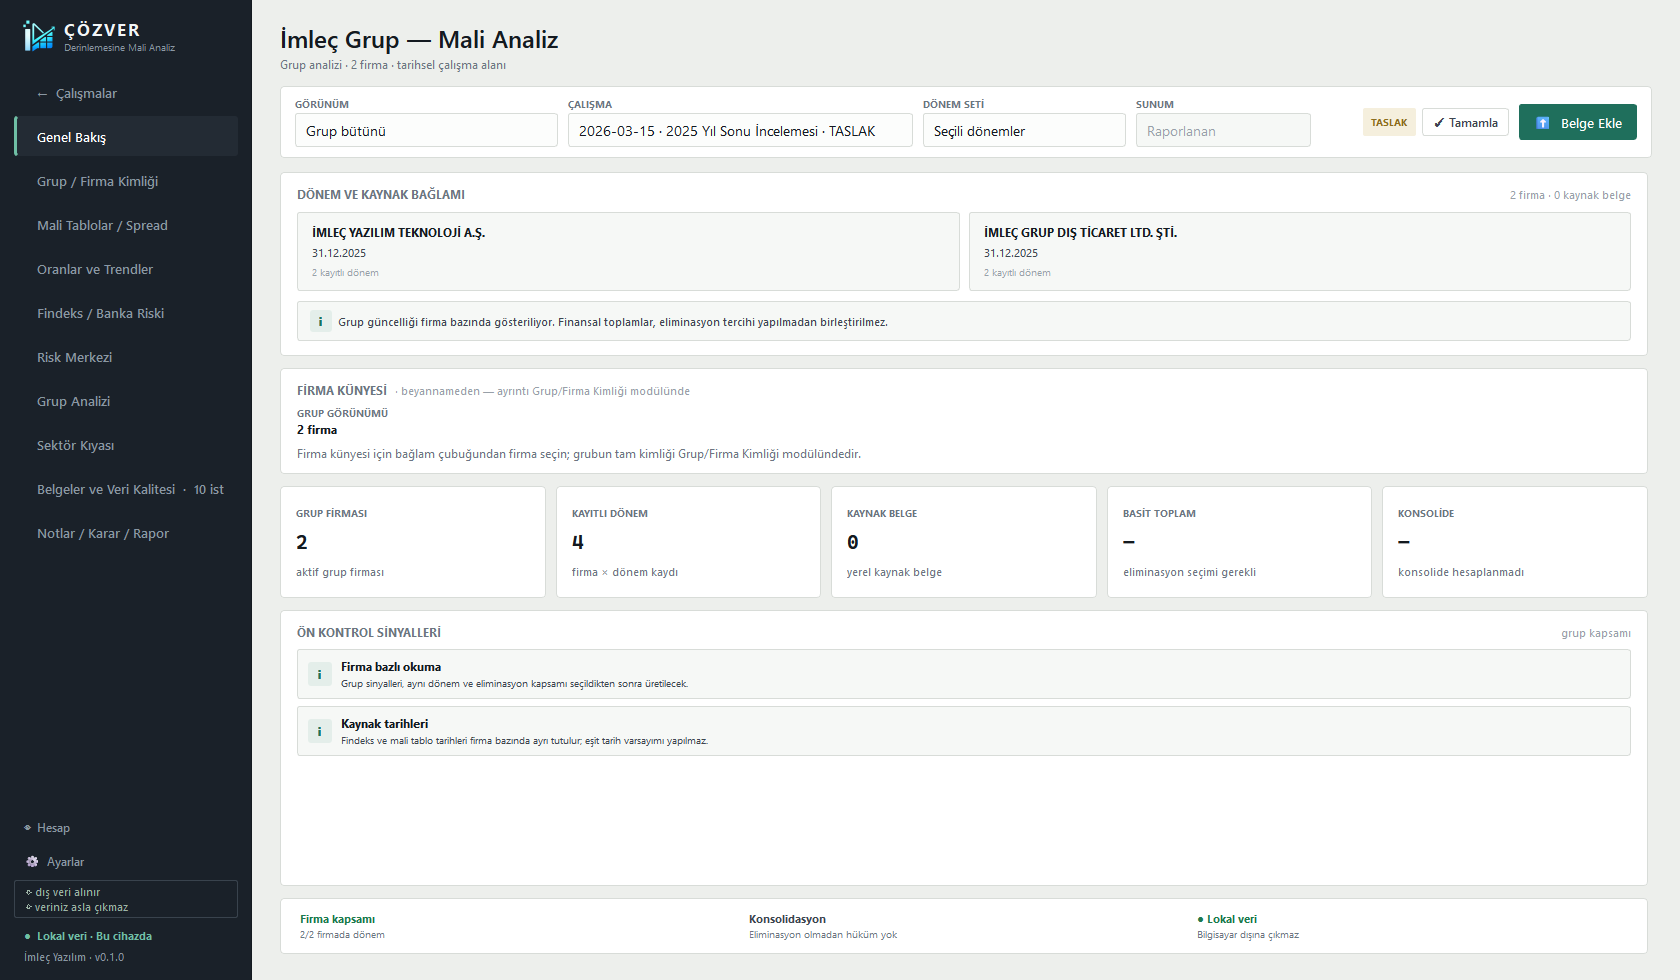
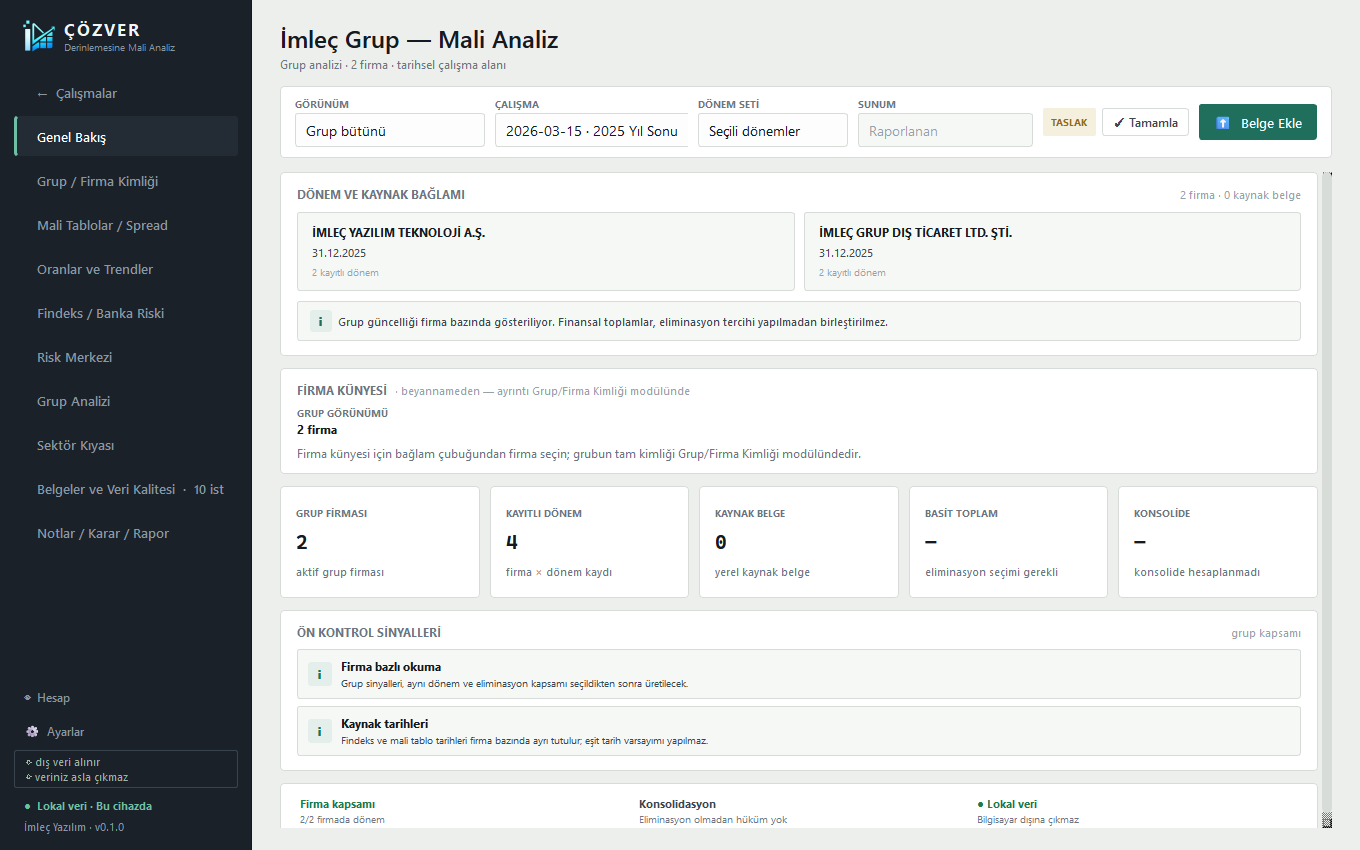
Readable full-width product screenshots, drop cross-product family section

diff --git a/components/products/ProductPageLayout.tsx b/components/products/ProductPageLayout.tsx
@@ -5,11 +5,8 @@ import Link from "next/link";
 import {
   ArrowRight,
   Check,
-  ChevronRight,
   Download,
-  FileSpreadsheet,
   LockKeyhole,
-  MonitorDown,
   Sparkles,
 } from "lucide-react";
 import { Badge } from "@/components/ui/Badge";
@@ -101,7 +98,8 @@ export type ProductPageConfig = {
     question: string;
     answer: string;
   }>;
-  related: RelatedProduct[];
+  /** Kullanilmiyor (18.08: urunler farkli mesleklere hitap eder, capraz satis yok) */
+  related?: RelatedProduct[];
   waitlist?: {
     action?: string | null;
     note: string;
@@ -344,30 +342,53 @@ export function ProductPageLayout({ config }: ProductPageLayoutProps) {
             {config.screenshots.map((screen) => (
               <TabsContent key={screen.id} value={screen.id}>
                 <WindowFrame title={screen.title}>
-                  <div className="grid gap-0 bg-[var(--surface-0)] lg:grid-cols-[1.12fr_0.88fr]">
-                    <div className="p-3">
-                      {screen.image ? (
+                  {screen.image ? (
+                    <div className="bg-[var(--surface-0)]">
+                      {/* Okunabilirlik: gorsel tam genislik; tiklayinca tam boyut acilir */}
+                      <a
+                        href={screen.image.src}
+                        target="_blank"
+                        rel="noreferrer"
+                        title="Tam boyut görmek için tıklayın"
+                        className="block cursor-zoom-in p-3"
+                      >
                         <Image
                           src={screen.image}
                           alt={screen.alt ?? screen.title}
                           className="h-auto w-full rounded-[var(--radius-md)] border border-[var(--border-subtle)]"
                         />
-                      ) : (
+                      </a>
+                      <div className="border-t border-[var(--border-subtle)] px-6 py-5">
+                        <p className="text-label text-[var(--text-tertiary)]">
+                          {screen.label}
+                        </p>
+                        <h3 className="text-h4 mt-2">{screen.title}</h3>
+                        <p className="text-body-s mt-2 max-w-3xl text-[var(--text-secondary)]">
+                          {screen.description}
+                        </p>
+                        <p className="text-body-s mt-3 text-[var(--text-tertiary)]">
+                          Görsele tıklayarak tam boyut inceleyebilirsiniz.
+                        </p>
+                      </div>
+                    </div>
+                  ) : (
+                    <div className="grid gap-0 bg-[var(--surface-0)] lg:grid-cols-[1.12fr_0.88fr]">
+                      <div className="p-3">
                         <div className="flex aspect-video items-center justify-center rounded-[var(--radius-md)] border border-[var(--border-subtle)] bg-[var(--surface-2)]">
                           <p className="text-body-s text-[var(--text-tertiary)]">
                             {screen.placeholder}
                           </p>
                         </div>
-                      )}
+                      </div>
+                      <div className="border-t border-[var(--border-subtle)] p-6 lg:border-l lg:border-t-0">
+                        <p className="text-label text-[var(--text-tertiary)]">{screen.label}</p>
+                        <h3 className="text-h3 mt-4">{screen.title}</h3>
+                        <p className="text-body mt-4 text-[var(--text-secondary)]">
+                          {screen.description}
+                        </p>
+                      </div>
                     </div>
-                    <div className="border-t border-[var(--border-subtle)] p-6 lg:border-l lg:border-t-0">
-                      <p className="text-label text-[var(--text-tertiary)]">{screen.label}</p>
-                      <h3 className="text-h3 mt-4">{screen.title}</h3>
-                      <p className="text-body mt-4 text-[var(--text-secondary)]">
-                        {screen.description}
-                      </p>
-                    </div>
-                  </div>
+                  )}
                 </WindowFrame>
               </TabsContent>
             ))}
@@ -487,61 +508,8 @@ export function ProductPageLayout({ config }: ProductPageLayoutProps) {
         </Accordion>
       </section>
 
-      <section className="mx-auto max-w-7xl px-6 py-16 sm:px-8 lg:px-10">
-        <div className="mb-8 flex flex-col gap-3 sm:flex-row sm:items-end sm:justify-between">
-          <div>
-            <p className="text-label text-[color-mix(in_oklch,var(--product-accent),white_18%)]">
-              İlgili ürünler
-            </p>
-            <h2 className="text-h2 mt-4">Aynı hesap altında ürün ailesi.</h2>
-          </div>
-          <Button asChild variant="outline">
-            <Link href="/products">
-              Platform ürünleri
-              <ChevronRight className="size-4" strokeWidth={1.5} />
-            </Link>
-          </Button>
-        </div>
-        <div className="grid gap-4 md:grid-cols-2">
-          {config.related.map((product) => (
-            <Card
-              key={product.name}
-              className="p-5"
-              style={{ "--related-accent": product.accent } as CSSProperties}
-              variant="interactive"
-            >
-              <div className="flex items-start justify-between gap-4">
-                <div className="flex gap-4">
-                  <div className="flex size-12 items-center justify-center rounded-[var(--radius-md)] border border-[color-mix(in_oklch,var(--related-accent),transparent_62%)] bg-[color-mix(in_oklch,var(--related-accent),transparent_88%)]">
-                    {product.name === "FİŞ260" ? (
-                      <FileSpreadsheet className="size-5" strokeWidth={1.5} />
-                    ) : (
-                      <MonitorDown className="size-5" strokeWidth={1.5} />
-                    )}
-                  </div>
-                  <div>
-                    <h3 className="text-h4">{product.name}</h3>
-                    <p className="text-body-s mt-2 max-w-xl text-[var(--text-secondary)]">
-                      {product.description}
-                    </p>
-                  </div>
-                </div>
-                <span className="text-mono rounded-[var(--radius-sm)] border border-[var(--border-subtle)] px-2 py-1 text-[var(--text-tertiary)]">
-                  {product.status}
-                </span>
-              </div>
-              <Link
-                className="mt-5 inline-flex items-center gap-2 text-body-s font-medium text-[var(--text-primary)] transition-colors hover:text-[color-mix(in_oklch,var(--related-accent),white_18%)]"
-                href={product.href}
-              >
-                Ürün sayfası
-                <ArrowRight className="size-4" strokeWidth={1.5} />
-              </Link>
-            </Card>
-          ))}
-        </div>
-      </section>
-
+      {/* "Urun ailesi / ilgili urunler" bolumu bilinçli KALDIRILDI (18.08):
+          her urun farkli meslek grubuna hitap eder, capraz gecis olmaz. */}
       <section className="border-t border-[var(--border-subtle)] bg-[var(--surface-1)]">
         <div className="mx-auto flex max-w-7xl flex-col gap-6 px-6 py-14 sm:px-8 md:flex-row md:items-center md:justify-between lg:px-10">
           <div>

diff --git a/app/cozver/page.tsx b/app/cozver/page.tsx
@@ -4,8 +4,9 @@ import {
   type ProductPageConfig,
 } from "@/components/products/ProductPageLayout";
 import shotGenelBakis from "./shots/cozver-genel-bakis.png";
-import shotOranlar from "./shots/cozver-oranlar.png";
-import shotSpread from "./shots/cozver-spread.png";
+import shotSektor from "./shots/cozver-sektor.png";
+import shotSpreadAnatomi from "./shots/cozver-spread-anatomi.png";
+import shotSpreadKarsilikli from "./shots/cozver-spread-karsilikli.png";
 
 export const metadata: Metadata = {
   title: "ÇÖZVER | İmleç Yazılım",
@@ -31,10 +32,6 @@ const cozverConfig: ProductPageConfig = {
       href: "/products",
       variant: "outline",
     },
-  },
-  waitlist: {
-    action: null,
-    note: "Bekleme listesi endpoint'i belirlendiğinde bu form aynı tasarım içinde aktif hale getirilecek.",
   },
   audience: [
     "Finansal analiz hazırlığını düzenli ve izlenebilir yapmak için planlanıyor.",
@@ -75,21 +72,30 @@ const cozverConfig: ProductPageConfig = {
     },
     {
       id: "spread",
-      label: "Spread",
-      title: "Mali Tablolar / Spread",
+      label: "Spread — Karşılıklı",
+      title: "Mali Tablolar / Spread — Üç Kanat",
       description:
-        "Dönemler yan yana, hesap düzeyinde kırılım ve değişim yüzdeleriyle. Terazi şeridi aktif-pasif eşitliğini kuruş düzeyinde doğrular; her rakamın kaynak zinciri hücre detayında açılır.",
-      image: shotSpread,
-      alt: "ÇÖZVER Spread ekranı — iki dönem karşılaştırmalı bilanço",
+        "Aktif, pasif ve gelir tablosu üç kanat halinde yan yana; dönemler karşılaştırmalı, değişimler yüzdeleriyle. Terazi şeridi aktif-pasif eşitliğini kuruş düzeyinde doğrular.",
+      image: shotSpreadKarsilikli,
+      alt: "ÇÖZVER Spread Karşılıklı görünümü — aktif, pasif ve gelir tablosu yan yana",
     },
     {
-      id: "ratios",
-      label: "Oranlar",
-      title: "Oranlar ve Trendler",
+      id: "anatomi",
+      label: "Anatomi",
+      title: "Bilanço Anatomisi",
       description:
-        "Likidite, kaldıraç ve kârlılık oranları dönemler arası trendleriyle birlikte; dikkat isteyen kalemler tek tıkla Spread'te ilgili hesaba götürür.",
-      image: shotOranlar,
-      alt: "ÇÖZVER Oranlar ve Trendler ekranı",
+        "Bilançonun orantılı kompozisyonu tek bakışta: hangi kalem ne kadar yer tutuyor, aktif ile pasif nasıl dengeleniyor. Bloklara tıklayınca hesap detayına inilir.",
+      image: shotSpreadAnatomi,
+      alt: "ÇÖZVER Anatomi görünümü — bilançonun orantılı kompozisyonu",
+    },
+    {
+      id: "sektor",
+      label: "Sektör Kıyası",
+      title: "Sektör Kıyası",
+      description:
+        "Firmanın oranları, TCMB ve TÜİK sektör istatistikleriyle kartil tablosunda kıyaslanır: firma değeri, sektör alt çeyreği, medyanı ve üst çeyreği yan yana — her satırda konum hükmüyle.",
+      image: shotSektor,
+      alt: "ÇÖZVER Sektör Kıyası ekranı — firma ve sektör kartil tablosu",
     },
   ],
   screenshotsNote:
@@ -136,16 +142,16 @@ const cozverConfig: ProductPageConfig = {
       },
       {
         name: "Kurumsal",
-        price: "Görüşme",
-        period: "ile",
+        price: "Planlanıyor",
+        period: "",
         description: "Ürün kapsamı olgunlaştığında kurumsal ihtiyaçlar ayrıca ele alınacak.",
         features: [
-          "Kapsam değerlendirmesi",
+          "Şirket hesabı altında çok kullanıcı",
           "Dağıtım planı",
-          "Yol haritası görüşmesi",
+          "Yol haritası",
         ],
-        ctaLabel: "Görüşme talep et",
-        ctaHref: "mailto:info@imlecyazilim.com?subject=ÇÖZVER ürün bilgisi",
+        ctaLabel: "Yakında",
+        disabled: true,
       },
     ],
   },
@@ -169,24 +175,6 @@ const cozverConfig: ProductPageConfig = {
       question: "ÇÖZVER de masaüstü uygulama mı olacak?",
       answer:
         "Evet. Planlanan ürün yapısı Windows masaüstü uygulaması ve web hesabıyla yönetilen ürün erişimi üzerine kuruludur.",
-    },
-  ],
-  related: [
-    {
-      name: "FİŞ260",
-      href: "/fis260",
-      status: "Satışta",
-      description:
-        "Fiş görsellerinden OCR ile veri çıkaran ve Excel çıktısı hazırlayan aktif masaüstü ürün.",
-      accent: "var(--accent-fis260)",
-    },
-    {
-      name: "KUYVERA",
-      href: "/kuyvera",
-      status: "Geliştirmede",
-      description:
-        "Kuyumcuların günlük işleyişi için geliştirilen üçüncü İmleç ürünü.",
-      accent: "var(--accent-kuyvera)",
     },
   ],
 };

diff --git a/app/kuyvera/page.tsx b/app/kuyvera/page.tsx
@@ -28,10 +28,6 @@ const kuyveraConfig: ProductPageConfig = {
       variant: "outline",
     },
   },
-  waitlist: {
-    action: null,
-    note: "KUYVERA duyuruları hazır olduğunda bu alandan bekleme listesine katılım açılacak.",
-  },
   audience: [
     "Kuyumcu işletmelerinin günlük işleyişi için planlanıyor.",
     "Ürün erişimi diğer İmleç ürünlerinden ayrı, İmleç hesabı altında yönetilecek.",
@@ -119,18 +115,18 @@ const kuyveraConfig: ProductPageConfig = {
         disabled: true,
       },
       {
-        name: "Görüşme",
-        price: "İletişim",
-        period: "ile",
+        name: "Kurumsal",
+        price: "Planlanıyor",
+        period: "",
         description:
-          "Kuyumcu işletmenizin ihtiyacını şimdiden iletmek isterseniz bize yazın.",
+          "Çok şubeli kuyumcu işletmeleri için kurumsal plan, kapsam netleşince duyurulacak.",
         features: [
-          "İhtiyaç değerlendirmesi",
+          "Çok şube / çok kullanıcı",
           "Kapsam önerisi",
-          "Yol haritası bilgisi",
+          "Yol haritası",
         ],
-        ctaLabel: "Görüşme talep et",
-        ctaHref: "mailto:info@imlecyazilim.com?subject=KUYVERA ürün bilgisi",
+        ctaLabel: "Yakında",
+        disabled: true,
       },
     ],
   },
@@ -154,24 +150,6 @@ const kuyveraConfig: ProductPageConfig = {
       question: "KUYVERA da masaüstü uygulama mı olacak?",
       answer:
         "Evet. Windows masaüstü uygulaması ve web hesabıyla yönetilen ürün erişimi üzerine kuruludur.",
-    },
-  ],
-  related: [
-    {
-      name: "FİŞ260",
-      href: "/fis260",
-      status: "Satışta",
-      description:
-        "Fiş görsellerinden OCR ile veri çıkaran ve Excel çıktısı hazırlayan aktif masaüstü ürün.",
-      accent: "var(--accent-fis260)",
-    },
-    {
-      name: "ÇÖZVER",
-      href: "/cozver",
-      status: "Çok yakında",
-      description:
-        "Finansal analiz ve spread hazırlığı için geliştirilen ikinci İmleç ürünü.",
-      accent: "var(--accent-cozver)",
     },
   ],
 };

diff --git a/app/fis260/page.tsx b/app/fis260/page.tsx
@@ -168,24 +168,6 @@ const fis260Config: ProductPageConfig = {
         "İmleç hesabı ortaktır, ancak ürün erişimleri ürün bazında ayrı yönetilir. ÇÖZVER aktif olduğunda kendi ürün erişimiyle görünür.",
     },
   ],
-  related: [
-    {
-      name: "ÇÖZVER",
-      href: "/cozver",
-      status: "Yakında",
-      description:
-        "Finansal analiz ve spread hazırlığı için geliştirme aşamasındaki masaüstü ürün.",
-      accent: "var(--accent-cozver)",
-    },
-    {
-      name: "KUYVERA",
-      href: "/kuyvera",
-      status: "Geliştirmede",
-      description:
-        "Kuyumcuların günlük işleyişi için geliştirilen üçüncü İmleç ürünü.",
-      accent: "var(--accent-kuyvera)",
-    },
-  ],
 };
 
 export default function Fis260Page() {
